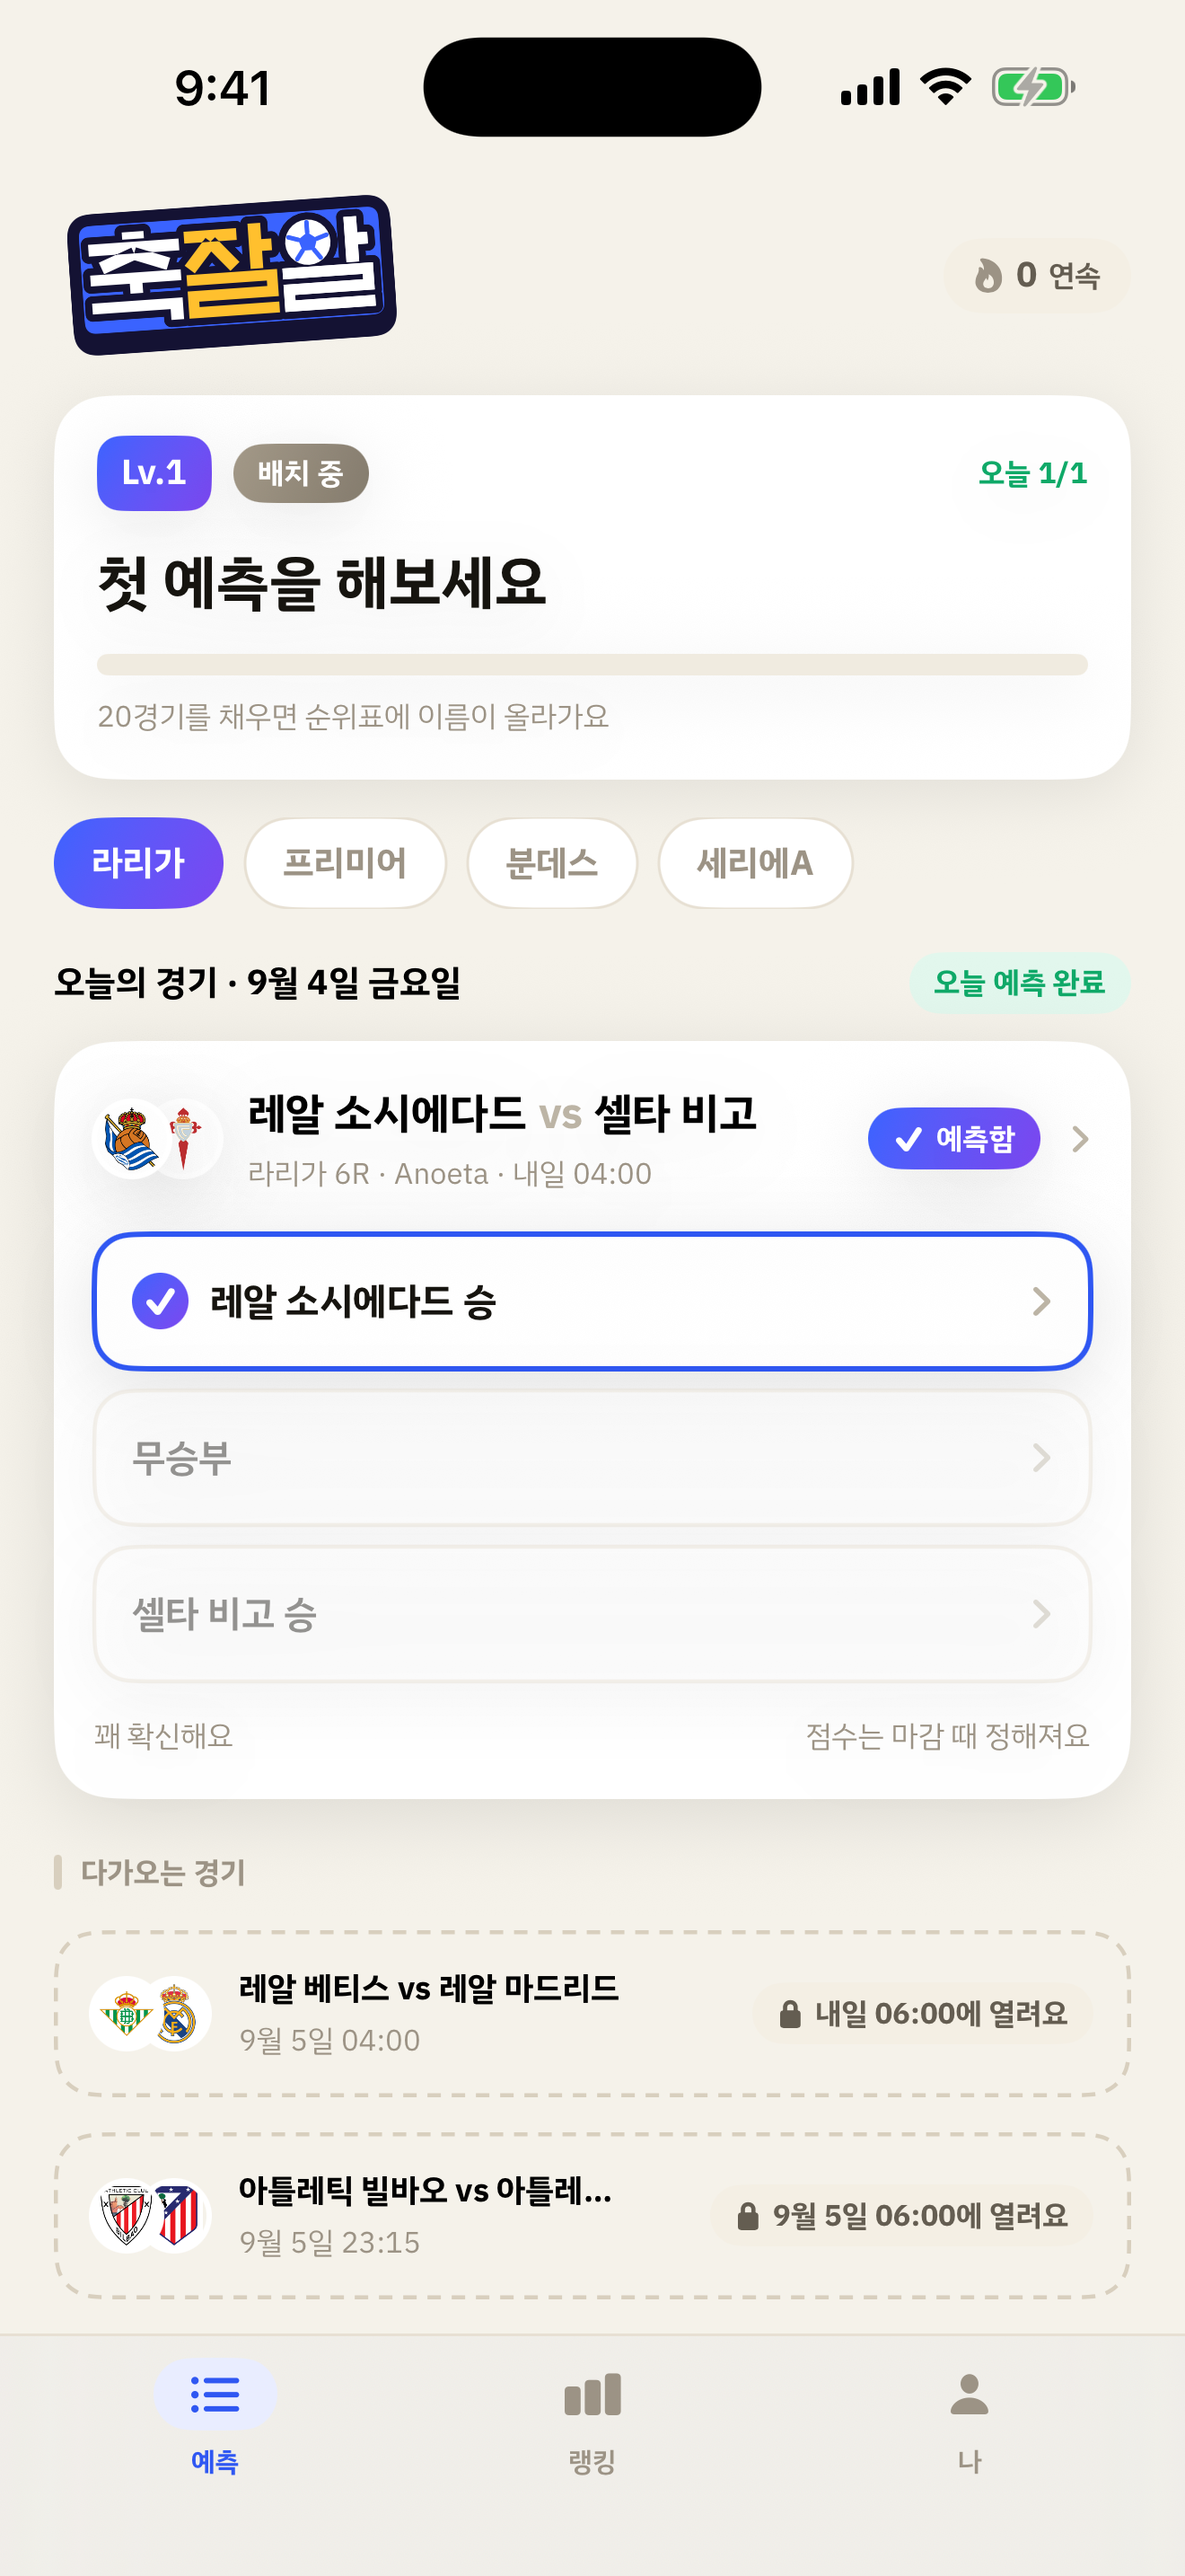
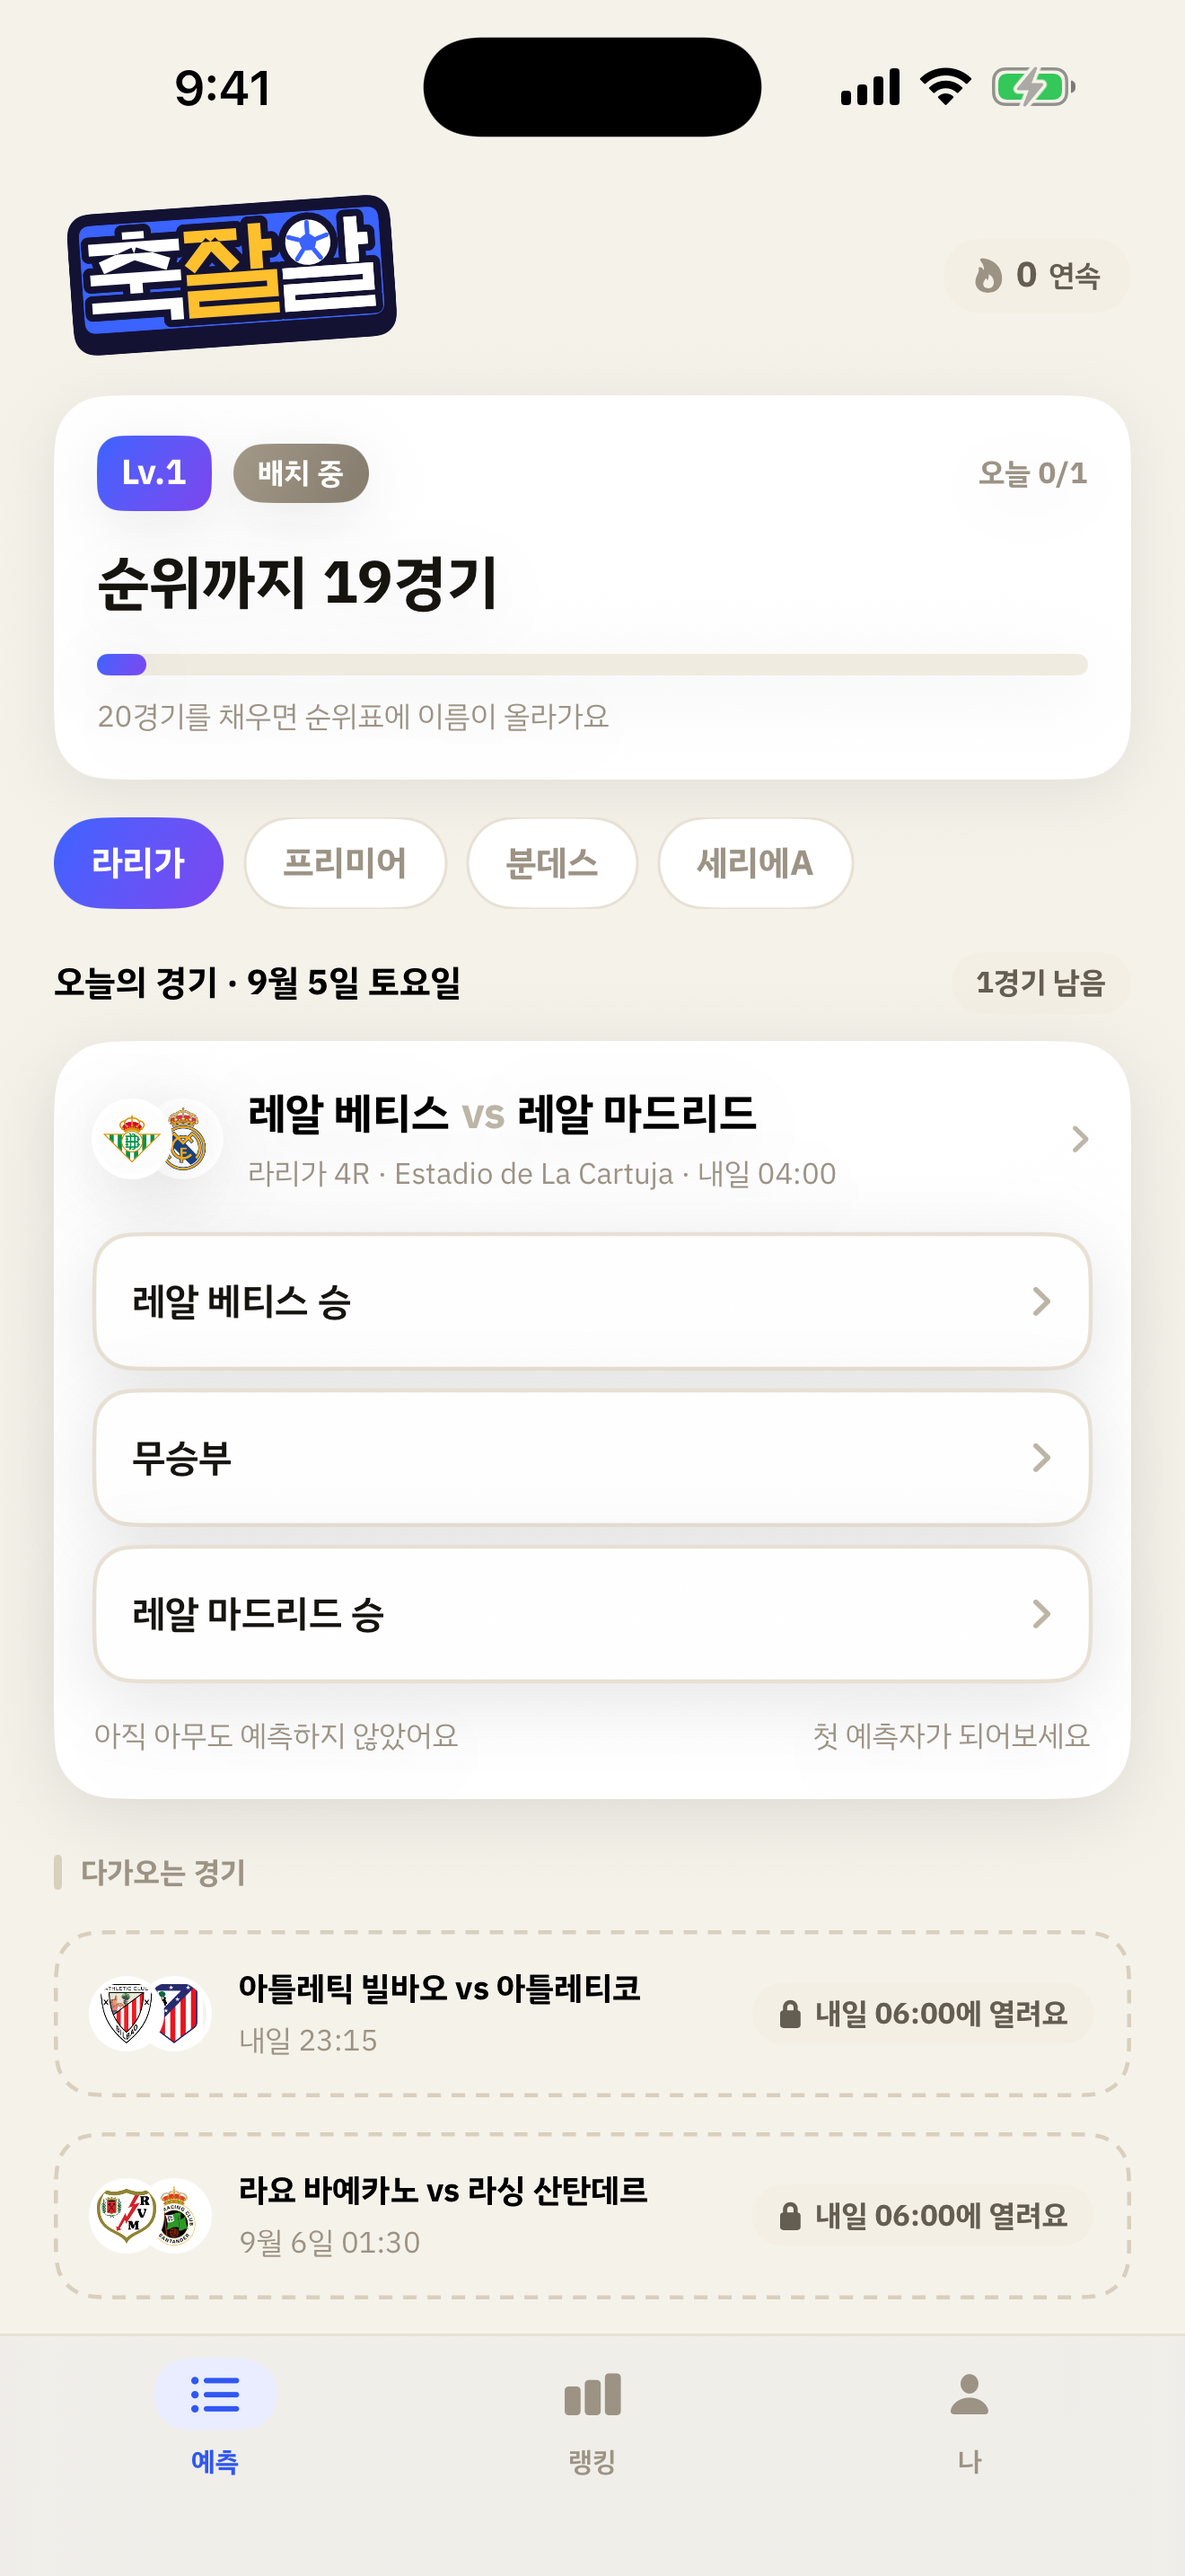
아이폰 전용으로 고정, 스크린샷 크기 변환기
아이패드를 껐다 (UIDeviceFamily 1). 앱과 위젯 양쪽 타깃에 직접 박아야 한다 —
settings.base 에 두면 타깃 기본값에 밀려 그대로 1,2 로 남는다. 아이패드에서도
돌게 두면 심사에서 아이패드 화면까지 보고, 세로 한 컬럼 레이아웃이 큰 화면에서
허전하다는 지적을 받는다.

App Store Connect 는 슬롯마다 픽셀 크기가 딱 정해져 있고 1픽셀만 달라도 거부한다.
6.9인치(1320x2868)로 한 번 찍고 6.5인치 두 크기를 여기서 만든다. 가로에 맞춰
줄인 뒤 세로 여분을 아래에서 잘라낸다 — 눌러서 맞추면 글자가 뭉개지고, 위를
자르면 상태바가 깎인다. 아래는 홈 인디케이터 자리라 잘려도 보이지 않는다.
sips 만 쓰므로 설치할 게 없다.

스크린샷 자동 전환은 확인 절차를 넣었다. 클릭이 먹었는지 추측하지 않고 화면이
실제로 바뀌었는지 해시로 본다. 그래도 이 환경에서는 같은 좌표가 됐다 안 됐다
해서, 안 바뀌면 다시 누르고 그래도 안 되면 멈춘다.

Claude-Session: https://claude.ai/code/session_01ThtAKNXxx91AmtjqcoSVXY

diff --git a/design/make-store-sizes.py b/design/make-store-sizes.py
@@ -1,0 +1,57 @@
+#!/usr/bin/env python3
+"""
+스크린샷을 App Store Connect 가 받는 크기로 변환한다.
+
+App Store Connect 는 슬롯마다 픽셀 크기가 딱 정해져 있고, 1픽셀만 달라도 거부한다.
+6.9인치로 한 번 찍어두고 여기서 나머지를 만든다.
+
+  6.9"  1320x2868   iPhone 16/17 Pro Max        (원본)
+  6.5"  1284x2778   iPhone 12/13 Pro Max
+  6.5"  1242x2688   iPhone 11 Pro Max / XS Max
+
+가로 비율에 맞춰 줄인 뒤 세로 여분을 아래에서 잘라낸다. 늘리거나 눌러서 맞추면
+글자가 미세하게 뭉개지고, 위를 자르면 상태바가 깎인다. 아래는 홈 인디케이터
+자리라 잘려도 보이지 않는다.
+
+의존성 없이 sips(macOS 기본)만 쓴다.
+"""
+import subprocess, sys, pathlib
+
+TARGETS = [(1284, 2778), (1242, 2688)]
+
+
+def convert(src: pathlib.Path, w: int, h: int, out_dir: pathlib.Path) -> pathlib.Path:
+    out_dir.mkdir(parents=True, exist_ok=True)
+    dst = out_dir / src.name
+    subprocess.run(["cp", str(src), str(dst)], check=True)
+    # 가로를 맞춘다 → 세로는 원본 비율만큼 남는다
+    subprocess.run(["sips", "--resampleWidth", str(w), str(dst)],
+                   check=True, stdout=subprocess.DEVNULL)
+    cur_h = int(subprocess.check_output(
+        ["sips", "-g", "pixelHeight", str(dst)]).split()[-1])
+    if cur_h != h:
+        # 위쪽을 기준으로 자른다 (sips 는 가운데 기준이라 offset 을 준다)
+        subprocess.run(["sips", "--cropOffset", "0", "0", "--cropToHeightWidth", str(h), str(w), str(dst)],
+                       check=True, stdout=subprocess.DEVNULL)
+    return dst
+
+
+def main() -> None:
+    src_dir = pathlib.Path(sys.argv[1] if len(sys.argv) > 1 else "design/appstore")
+    shots = sorted(src_dir.glob("*.png"))
+    if not shots:
+        sys.exit(f"{src_dir} 에 png 가 없습니다")
+
+    for w, h in TARGETS:
+        out = src_dir / f"{w}x{h}"
+        for s in shots:
+            d = convert(s, w, h, out)
+            size = subprocess.check_output(
+                ["sips", "-g", "pixelWidth", "-g", "pixelHeight", str(d)]).decode()
+            got = tuple(int(x) for x in size.split() if x.isdigit())
+            mark = "✔" if got == (w, h) else f"✖ {got}"
+            print(f"  {out.name}/{s.name}  {mark}")
+
+
+if __name__ == "__main__":
+    main()
